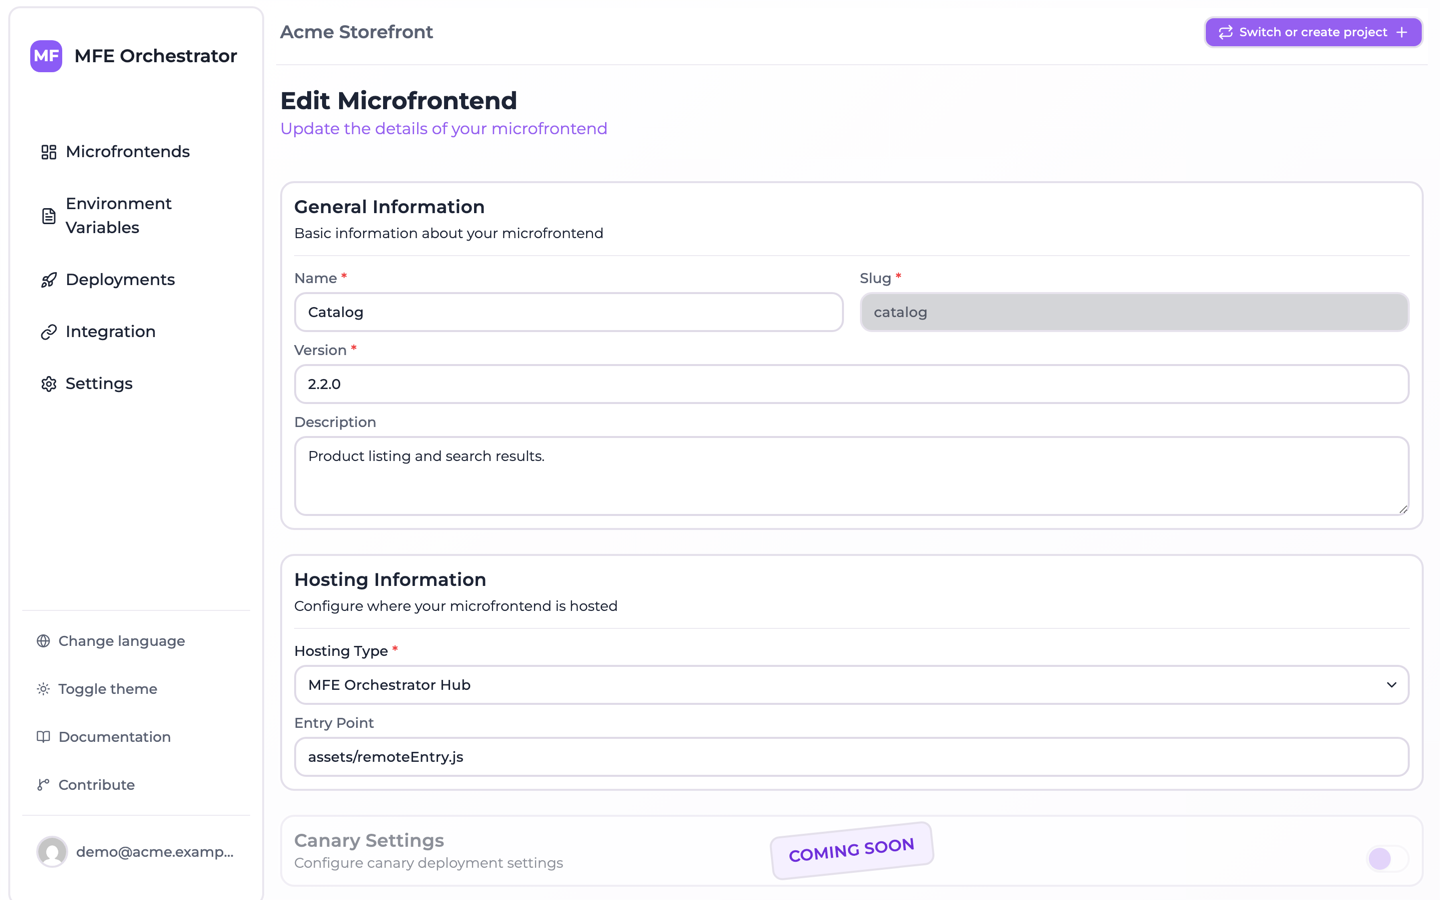
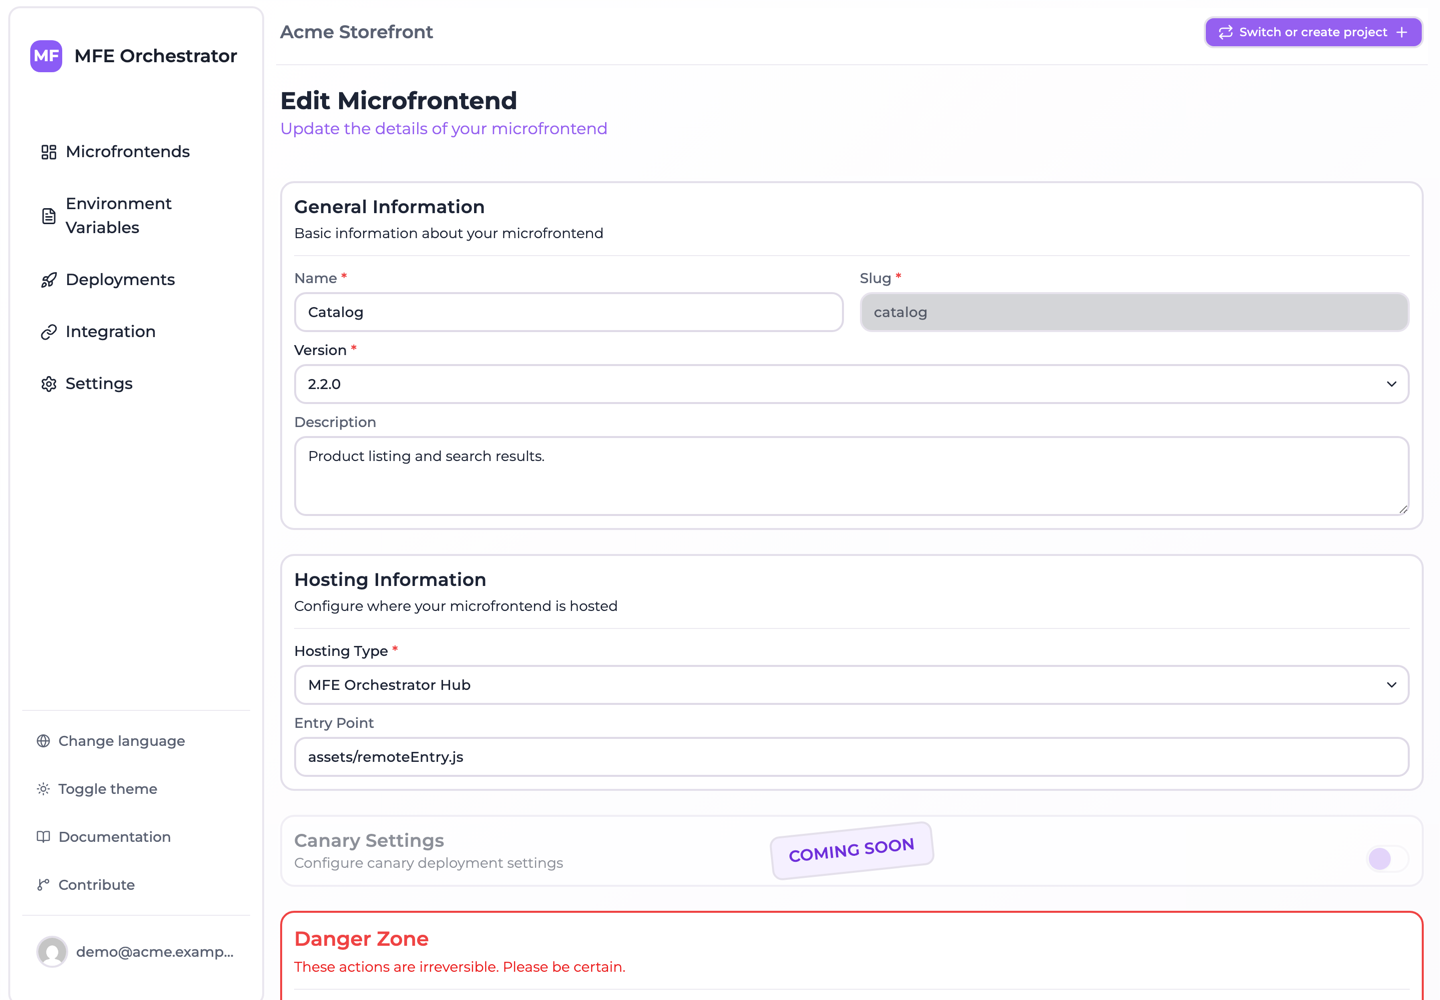
docs: screenshot the version selector, and fix two claims about it
Uploading three versions of a microfrontend confirmed what the Version field
does once the platform has seen a build: it becomes a list of the uploaded
versions plus Custom version. Before the first upload it is a plain text box,
which the page now says.

The slug caution said to pick a slug you can live with because renaming one
breaks consumers. In fact the console disables the field when editing a
microfrontend, so it cannot be renamed at all — corrected.

Also illustrates core-concepts with the microfrontend graph and a deployment
snapshot.

diff --git a/docs/core-concepts.md b/docs/core-concepts.md
@@ -68,6 +68,8 @@ Hosts and remotes are wired together by declaring parent/child relations in the 
 MFE Orchestrator turns those relations into the `remotes` block of your Module Federation
 configuration.
 
+![The microfrontends of a project, drawn as a host with its remotes](./assets/microfrontends-diagram-view.png)
+
 Each microfrontend has a `slug` (unique per project), a `version`, and a **hosting type** that
 tells the platform where its files actually live. See
 [Microfrontends → Hosting options](./microfrontends/hosting-options.md).
@@ -109,6 +111,8 @@ affect what your users see. Those changes sit in the project configuration until
 Deployments are numbered per environment (`#1`, `#2`, `#3` …) and exactly one of them is
 **active** at any time. Because a snapshot is immutable, rolling back is just a matter of
 re-activating an older one. See [Deployments](./deployments/overview.md).
+
+![A deployment snapshot with the versions and variables it froze](./assets/deployments-overview.png)
 
 ### API key
 

diff --git a/docs/microfrontends/overview.md b/docs/microfrontends/overview.md
@@ -64,10 +64,11 @@ You can filter the list by free-text search and by status.
 | **Code repository** | Optional link to a GitHub / GitLab / Azure DevOps repository, which enables the **Build** action |
 | **Canary** | Optional progressive rollout configuration — see [Canary releases](./canary-releases.md) |
 
-:::caution The slug is part of your public URLs
-Changing a slug changes the serve URLs for that microfrontend and the remote name in generated
-Module Federation configs. Any host that has not been re-deployed will keep pointing at the old
-name. Pick a slug you can live with.
+:::caution The slug is fixed at creation
+The slug appears in your serve URLs and becomes the remote name in generated Module Federation
+configs, so the console does not let you change it afterwards — the field is read-only when you
+edit a microfrontend. Getting a different slug means creating a new microfrontend and re-pointing
+its consumers. Pick one you can live with.
 :::
 
 ## Where to go next

diff --git a/docs/microfrontends/versions-and-builds.md b/docs/microfrontends/versions-and-builds.md
@@ -93,6 +93,11 @@ offers the versions known to the platform, plus a **Custom version** option for 
 directly — useful for Custom URL microfrontends, where the platform has no upload history to
 list.
 
+![The Version field listing the uploaded versions and a Custom version option](../assets/microfrontend-version-select.png)
+
+Before anything has been uploaded there is nothing to list, so the field starts out as a plain text
+box and only becomes a list once the platform has seen its first version.
+
 Then [deploy](../deployments/overview.md) the environments you want to move.
 
 ## Continuous deployment
